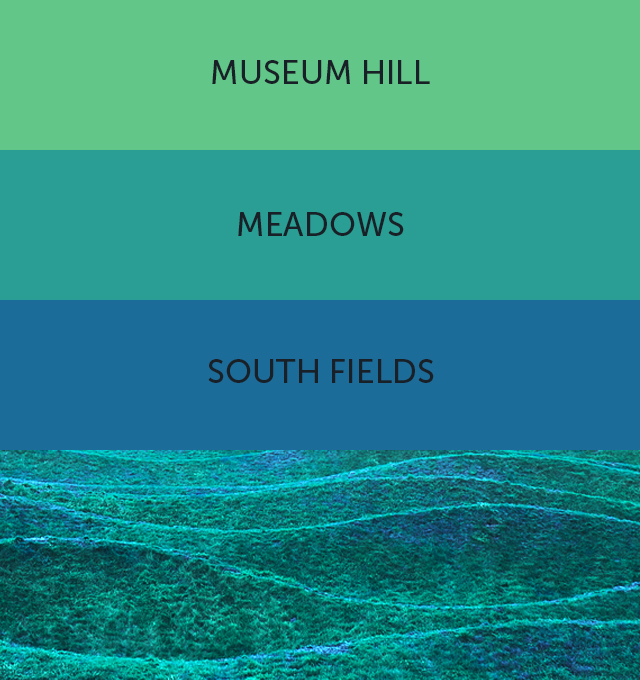
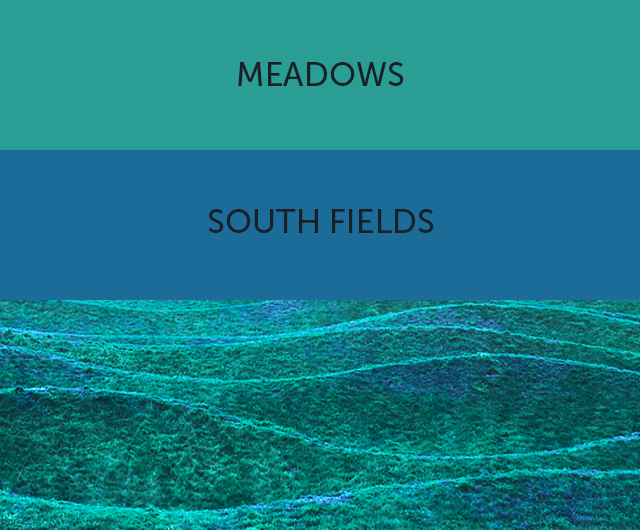
Working on the different Neighborhood Views. Have North Woods and Museum Hill functioning.
Merging back with Master.

diff --git a/index.html b/index.html
@@ -13,11 +13,15 @@
 
 	<script type="text/javascript" src="https://maps.googleapis.com/maps/api/js?key=AIzaSyD6BZln5bCOyG21BWXmJrUwsoKZTmzdMI0&sensor=false"></script>
 
+	<script type="text/javascript" src="js/models/neighborhood.js"></script>
 	<script type="text/javascript" src="js/models/sculpture.js"></script>
+	<script type="text/javascript" src="js/collections/neighborhoods.js"></script>
 	<script type="text/javascript" src="js/collections/sculptures.js"></script>
 	<script type="text/javascript" src="js/views/homepage.js"></script>
+	<script type="text/javascript" src="js/views/northwoods.js"></script>
+	<script type="text/javascript" src="js/views/museumhill.js"></script>
 	<script type="text/javascript" src="js/views/neighborhoods.js"></script>
-	<script type="text/javascript" src="js/views/homer.js"></script>
+	<script type="text/javascript" src="js/views/singleneighborhood.js"></script>
 	<script type="text/javascript" src="js/views/thumbview.js"></script>
 	<script type="text/javascript" src="js/views/singlesculpture.js"></script>
 	<script type="text/javascript" src="js/views/map.js"></script>
@@ -38,28 +42,6 @@
 <script>
 $(function() {
 	$('#back-button img').click( function() {window.history.back()});
-	// APP = {};
-
-	// APP.Map = Backbone.Model.extend({
-	//   defaults: {
-	//     center: new google.maps.LatLng(-34.397, 150.644),
-	//     zoom: 8,
-	//     mapTypeId: google.maps.MapTypeId.ROADMAP
-	//   }
-	// });
-	// APP.map = new APP.Map();
-
-	// APP.MapView = Backbone.View.extend({
-	//   id: 'map',
-	//   initialize: function(){
-	//     this.map = new google.maps.Map(this.el, this.model.attributes);
-	//     this.render();
-	//   },
-	//   render: function(){
-	//     $('#map').replaceWith(this.el);
-	//   }
-	// });
-	// APP.mapView = new APP.MapView({model: APP.map});
 });
 </script>
 

diff --git a/js/app.js b/js/app.js
@@ -2,11 +2,23 @@ var AppRouter = Backbone.Router.extend({
 	routes: {
 		"": "homepage",
 		"neighborhoods": "neighborhoods",
+		"neighborhoods/:nabe": "hoods",
 		"thumbs": "thumbs",
+		"museumhill": "museumHill",
 		"sculptures/:item": "sculptureDetails"
 	},
 
 	initialize: function  () {
+
+		this.neighborhoods = new Sculptures();
+		this.neighborhoods.fetch();
+
+		this.neighborhoodModel = new Neighborhood();
+		this.singleNeighborhoodView = new SingleNeighborhood(
+			{
+				model: this.neighborhoodModel
+			}
+		);
 
 		this.sculptures = new Sculptures();
 		this.sculptures.fetch();
@@ -20,9 +32,12 @@ var AppRouter = Backbone.Router.extend({
 		
 		this.homepageView = new Homepage();
 
-		this.neighborhoodView = new Neighborhood();
+		this.neighborhoodView = new Neighborhoods();
 
 		this.thumbView = new ThumbView({collection: this.sculptures});
+		this.museumHillView = new MuseumHill({collection: this.sculptures});
+
+		// this.museumHillView = new MuseumHill({collection: this.sculptures});
 
 		$('#top-bar').hide();
 	},
@@ -43,6 +58,18 @@ var AppRouter = Backbone.Router.extend({
 		$('#top-bar').fadeIn(900);
 		$('#app').html(this.thumbView.render().el);
 	},
+
+	museumHill: function () {
+		$('#top-bar').hide();
+		$('#top-bar').fadeIn(900);
+		$('#app').html(this.museumHillView.render().el);
+	},
+
+	// hoods: function () {
+	// 	$('#top-bar').hide();
+	// 	$('#top-bar').fadeIn(900);
+	// 	$('#app').html(this.thumbView.render().el);
+	// },
 
 	sculptureDetails: function (item) {
 		this.singleSculptureView.model = this.sculptures.get(item);

diff --git a/js/views/singleneighborhood.js b/js/views/singleneighborhood.js
@@ -1,0 +1,45 @@
+var SingleNeighborhood = Backbone.View.extend({
+	template: Handlebars.compile(
+		
+		'<img id="neighborhood-header" src="images/neighborhoods-museumHill.jpg" />' +
+		'<div id="thumbs">' + 
+		'{{#each models}}' +
+			'<a href="#/neighborhoods/{{attributes.url}}">' +
+				'<img src="images/{{attributes.thumbnail}}" />' +
+			'</a>' +
+		'{{/each}}' +
+		'</div>'
+
+	),
+
+	initialize: function () {
+		this.render();
+	},
+	
+	render: function () {
+		// this.$el.html(this.template(this.model.attributes));
+		this.$el.html(this.template(this.model.attributes)).fadeIn(900);
+
+		// this.setTimeout(function() {
+		// 	// this.loadMap();
+		// 	console.log('delayed');
+		// }, 4000);
+		return this;
+	},
+
+	loadMap: function() {
+		var sculptLatLng = new google.maps.LatLng(this.model.get('latitude'), this.model.get('longitude'));
+		var mapOptions = {
+			zoom: this.model.get('zoom'),
+			center: sculptLatLng,
+			mapTypeId: google.maps.MapTypeId.SATELLITE,
+			disableDefaultUI: true
+		};
+		var map = new google.maps.Map(document.getElementById('the-map'), mapOptions);
+		var marker = new google.maps.Marker({
+		    position: sculptLatLng,
+		    map: map
+		});
+		// console.log(sculptLatLng);
+	}
+});

diff --git a/js/views/museumhill.js b/js/views/museumhill.js
@@ -1,10 +1,11 @@
-var ThumbView = Backbone.View.extend({
+var MuseumHill = Backbone.View.extend({
 
 	template: Handlebars.compile(
 		// '<div class="container" id="top-bar">' +
 		// 	'<div id="back-button" ><img src="images/title-bar-back.png" /></div>' +
 		// '</div>' +
-		'<img id="neighborhood-header" src="images/neighborhoods-header-northwoods.jpg" />' +
+		// '<img id="neighborhood-header" src="images/neighborhoods-header-northwoods.jpg" />' +
+		'<img src="images/neighborhoods-header-museumHill.jpg" />' +
 		'<div id="thumbs">' + 
 		'{{#each models}}' +
 			'<a href="#/sculptures/{{attributes.url}}">' +

diff --git a/js/views/neighborhoods.js b/js/views/neighborhoods.js
@@ -1,4 +1,4 @@
-var Neighborhood = Backbone.View.extend({
+var Neighborhoods = Backbone.View.extend({
 
 	template: Handlebars.compile(
 		// '<div class="container" id="top-bar">' +
@@ -9,6 +9,9 @@ var Neighborhood = Backbone.View.extend({
 			'<img src ="images/neighborhoods-header.jpg" />' +
 			'<a href="#/thumbs">' +
 				'<img src="images/neighborhoods-northWoods.jpg" />' +
+			'</a>' +
+			'<a href="#/museumhill">' +
+				'<img src="images/neighborhoods-museumHill.jpg" />' +
 			'</a>' +
 			'<img src ="images/neighborhoods-rest.jpg" />' +
 		'</div>'

diff --git a/js/models/neighborhood.js b/js/models/neighborhood.js
@@ -1,0 +1,11 @@
+var Neighborhood = Backbone.Model.extend({
+	// url: 'http://localhost/stormking/02a/data/menu-items.json',
+	// url: '../../data/menu-items.json',
+	defaults: {
+		zoom: 17,
+		latitude: '41.428304',
+		longitude: '-74.061790',
+		mapTypeId: 'google.maps.MapTypeId.SATELLITE',
+		disableDefaultUI: 'true'		
+	}
+});

diff --git a/js/collections/neighborhoods.js b/js/collections/neighborhoods.js
@@ -1,4 +1,4 @@
-var Sculptures = Backbone.Collection.extend({
+var Neighborhoods = Backbone.Collection.extend({
 	comparator: 'name',
 	model: Sculpture,
 	url: './data/sculptures.json'

diff --git a/js/views/northwoods.js b/js/views/northwoods.js
@@ -1,4 +1,4 @@
-var ThumbView = Backbone.View.extend({
+var NorthWoods = Backbone.View.extend({
 
 	template: Handlebars.compile(
 		// '<div class="container" id="top-bar">' +
